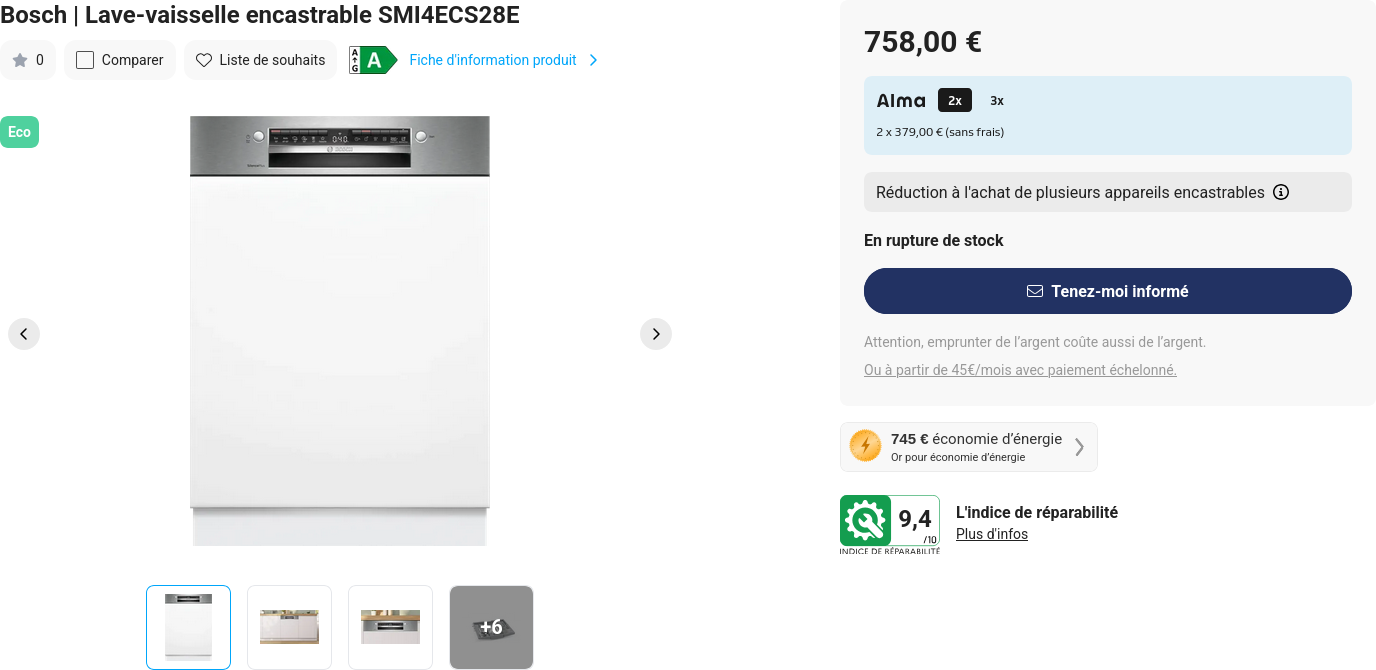
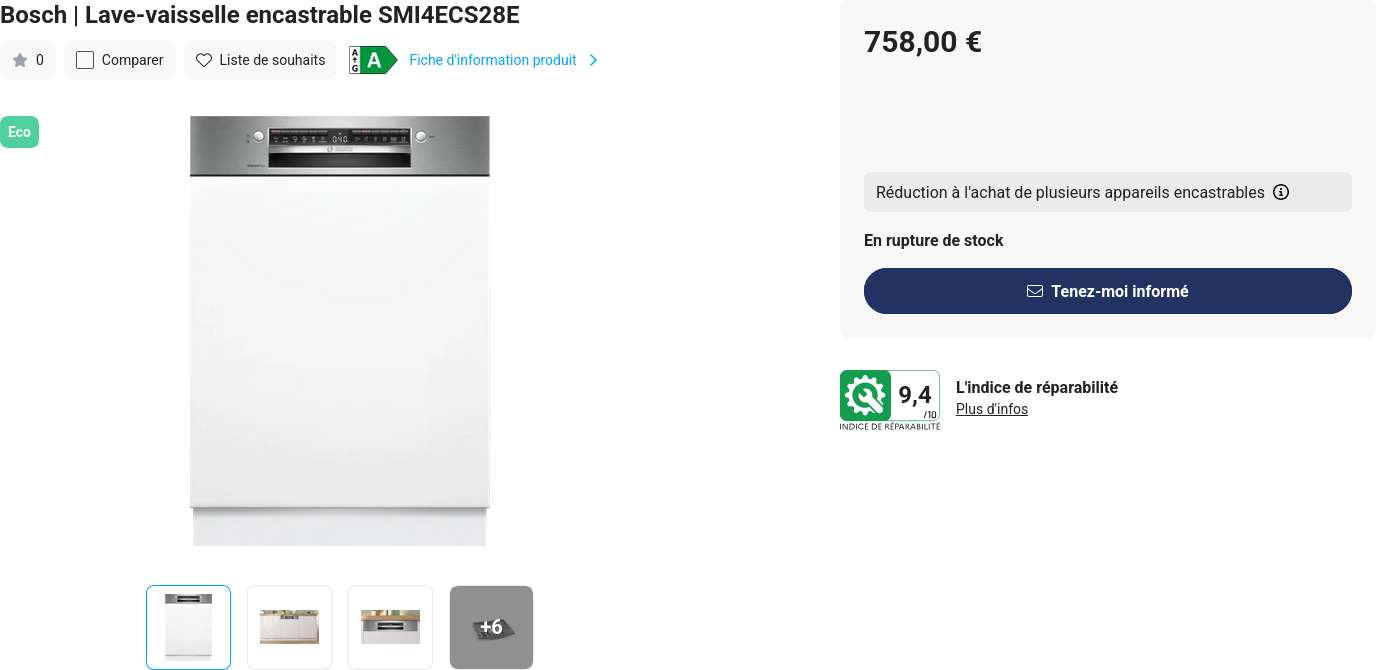
Latest scraping prices: Mon Jun 30 17:27:15 UTC 2025

Changed region(s): [[0.625, 0.0896, 1.0, 0.2388], [0.5938, 0.5075, 0.875, 0.6866], [0.5938, 0.7164, 0.8125, 0.8358]]

diff --git a/scrapes/prices/vandenborre-SMI4ECS28E.md b/scrapes/prices/vandenborre-SMI4ECS28E.md
@@ -20,7 +20,9 @@ Attention, emprunter de l'argent coûte aussi de l'argent.
 
 ### Informations supplémentaires
 
-[9,4](https://media3.bsh-group.com/Documents/26418789_SMI4ECS28E_DC_BERI_03282025_1.pdf)![A](//image.vandenborre.be/WEBV3/assets/images/eprel_stickers/A.svg)[![A](//image.vandenborre.be/WEBV3/assets/images/eprel_stickers/A.svg)](//www.vandenborre.be/fr/lave-vaisselle-encastrable/bosch-smi4ecs28e-serie-4-extradry)
+9,4
+
+![A](//image.vandenborre.be/WEBV3/assets/images/eprel_stickers/A.svg)[![A](//image.vandenborre.be/WEBV3/assets/images/eprel_stickers/A.svg)](//www.vandenborre.be/fr/lave-vaisselle-encastrable/bosch-smi4ecs28e-serie-4-extradry)
 
 [Fiche d'information sur le produit](https://eprel.ec.europa.eu/api/product/1956200/fiches?noRedirect=false&language=FR)
 

diff --git a/scrapes/prices/krefel-SMI4ECS28E.md b/scrapes/prices/krefel-SMI4ECS28E.md
@@ -1,26 +1,10 @@
 758,00 €
 
-2x
-
-3x
-
-2 x 379,00 € (sans frais)
-
 Réduction à l'achat de plusieurs appareils encastrables
 
 En rupture de stock
 
 Tenez-moi informé
-
-Attention, emprunter de l’argent coûte aussi de l’argent.
-
-Ou à partir de 45€/mois avec paiement échelonné.
-
-745 €  économie d’énergie
-
-Meilleur pour économie d’énergie Or pour économie d’énergie Argent pour économie d’énergie Bronze pour économie d’énergie Bon rapport prix/efficacité Bon rapport prix/efficacité
-
-Cette action ouvrira l’Outil Économie d’Énergie Youreko.
 
 ### 9,4
 
